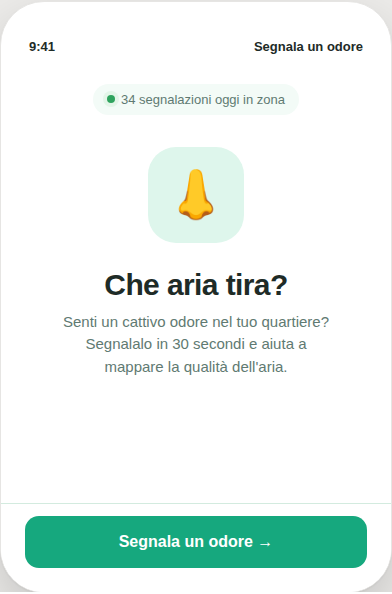
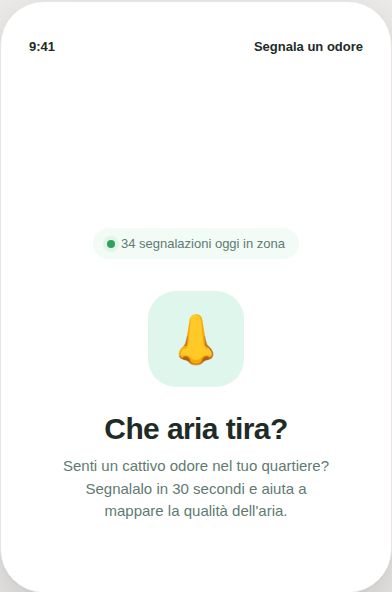
test(e2e): cover confirmation fix, fullscreen preview, and custom intro/confirmation
Extend flow-parity specs to assert the confirmation stat row is fully
visible and horizontally padded (regression guard for the earlier
overflow/padding bug). Add specs for the playground fullscreen preview
(width simulator) and the custom-intro preset (role-based intro/
confirmation with standard sticky CTA/footer). Regenerate the intro
screenshot baselines to match the padding fix.

Claude-Session: https://claude.ai/code/session_01QsWJSH7WEzpHJWCdH2xLE1

diff --git a/e2e/playground-fullscreen.spec.ts b/e2e/playground-fullscreen.spec.ts
@@ -1,0 +1,27 @@
+import { test, expect } from "@playwright/test"
+
+test.describe("playground fullscreen preview", () => {
+  test("opens fullscreen, simulates mobile/tablet/desktop widths, then closes", async ({ page }) => {
+    await page.goto("/")
+
+    await page.getByRole("button", { name: "Anteprima fullscreen" }).click()
+
+    const overlay = page.locator(".pg-fullscreen-overlay")
+    await expect(overlay).toBeVisible()
+
+    const frame = page.locator(".pg-fullscreen-frame")
+
+    await page.getByRole("button", { name: "Mobile 390px" }).click()
+    await expect(frame).toHaveCSS("width", "390px")
+
+    await page.getByRole("button", { name: "Tablet 768px" }).click()
+    await expect(frame).toHaveCSS("width", "768px")
+
+    await page.getByRole("button", { name: "Desktop (100%)" }).click()
+    const desktopWidth = await frame.evaluate((el) => el.getBoundingClientRect().width)
+    expect(desktopWidth).toBeGreaterThan(768)
+
+    await page.getByRole("button", { name: "Chiudi anteprima fullscreen" }).click()
+    await expect(overlay).not.toBeVisible()
+  })
+})

diff --git a/e2e/custom-intro.spec.ts b/e2e/custom-intro.spec.ts
@@ -1,0 +1,25 @@
+import { test, expect } from "@playwright/test"
+
+test.describe("custom-intro preset (role intro/confirmation)", () => {
+  test("renders custom intro/confirmation bodies with the standard sticky CTA/footer", async ({ page }) => {
+    await page.goto("/")
+    await page.getByLabel("Preset", { exact: true }).selectOption("custom-intro")
+
+    // custom intro body renders, header hidden, CTA label comes from the custom step's own field
+    await expect(page.locator(".fk-step-intro-hero")).toBeVisible()
+    await expect(page.locator(".fk-header")).toHaveCount(0)
+    const cta = page.getByRole("button", { name: "Scopri di più" })
+    await expect(cta).toBeVisible()
+    await cta.click()
+
+    // faces step in the middle
+    await page.locator(".fk-face").first().click()
+    await page.getByRole("button", { name: "Continua", exact: true }).click()
+
+    // custom confirmation body + standard two-button sticky footer
+    await expect(page.locator(".fk-step-confirmation-hero")).toBeVisible()
+    await expect(page.locator(".fk-header")).toHaveCount(0)
+    await expect(page.getByRole("button", { name: "Torna alla home" })).toBeVisible()
+    await expect(page.getByRole("button", { name: "Rifai la demo" })).toBeVisible()
+  })
+})

diff --git a/e2e/flow-parity.spec.ts b/e2e/flow-parity.spec.ts
@@ -31,6 +31,14 @@ test.describe("odori preset", () => {
     await page.getByRole("button", { name: "Invia segnalazione ✓" }).click()
 
     await expect(page.locator(".fk-step-confirmation")).toBeVisible()
+    await expect(page.locator(".fk-stat-row")).toBeInViewport()
+
+    const scrollWrapper = page.locator(".fk-scroll-noheader")
+    const paddingLeft = await scrollWrapper.evaluate((el) => getComputedStyle(el).paddingLeft)
+    expect(parseFloat(paddingLeft)).toBeGreaterThan(0)
+
+    const overflowY = await scrollWrapper.evaluate((el) => getComputedStyle(el).overflowY)
+    expect(overflowY).toBe("auto")
   })
 })
 